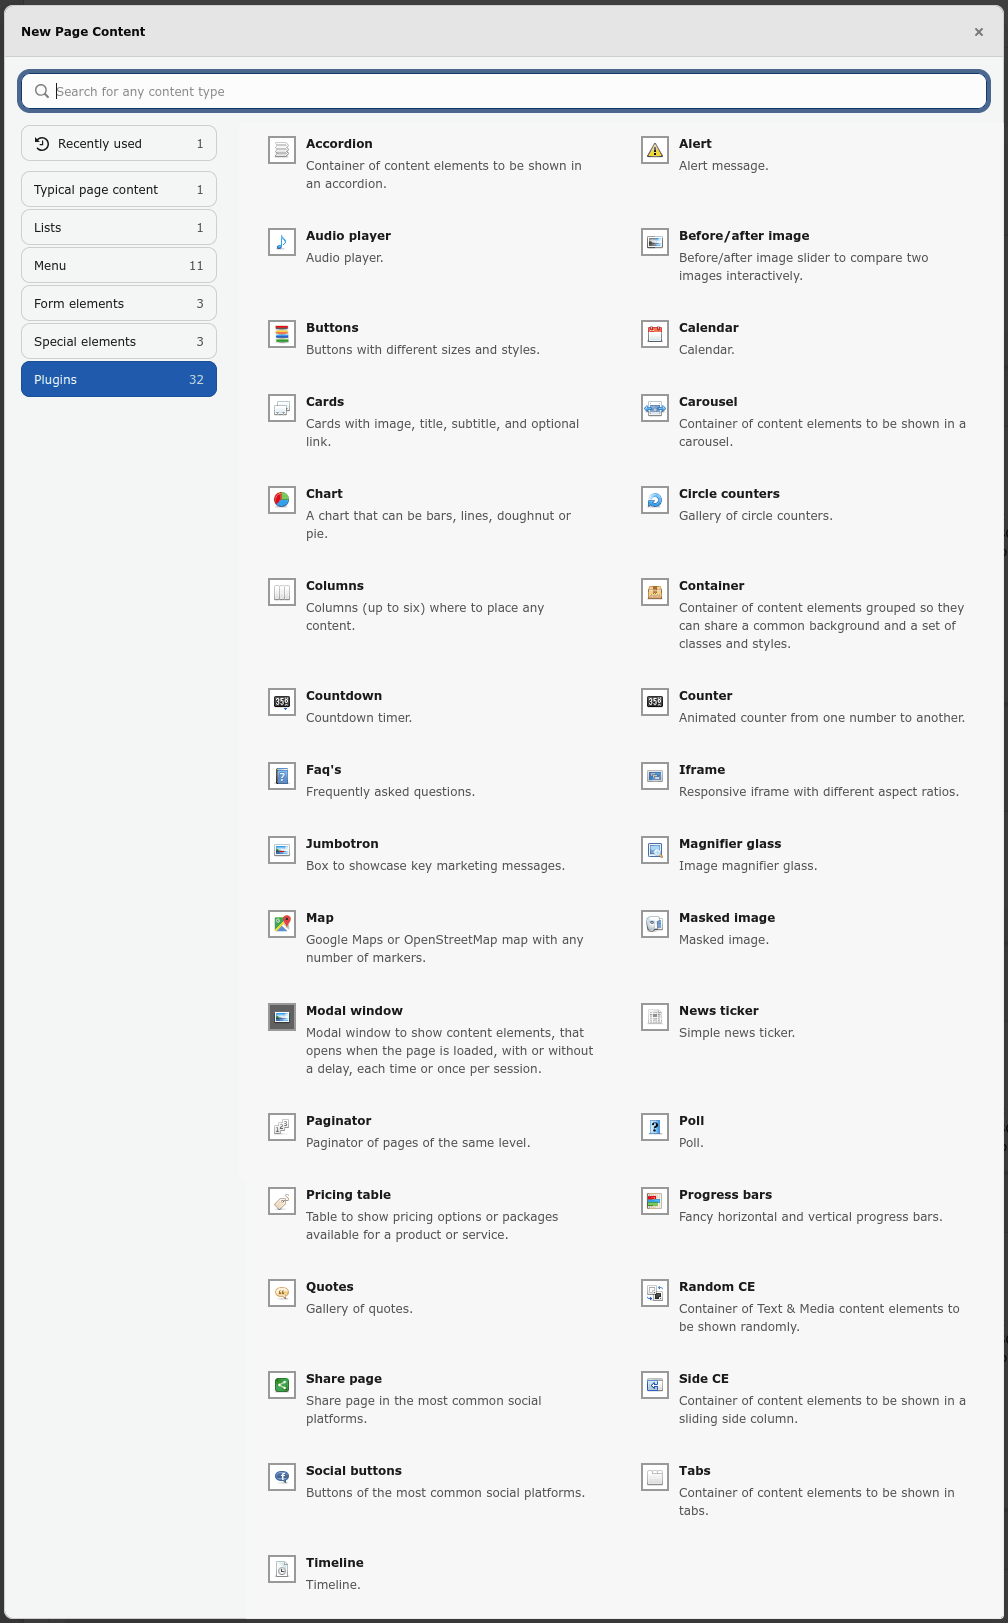
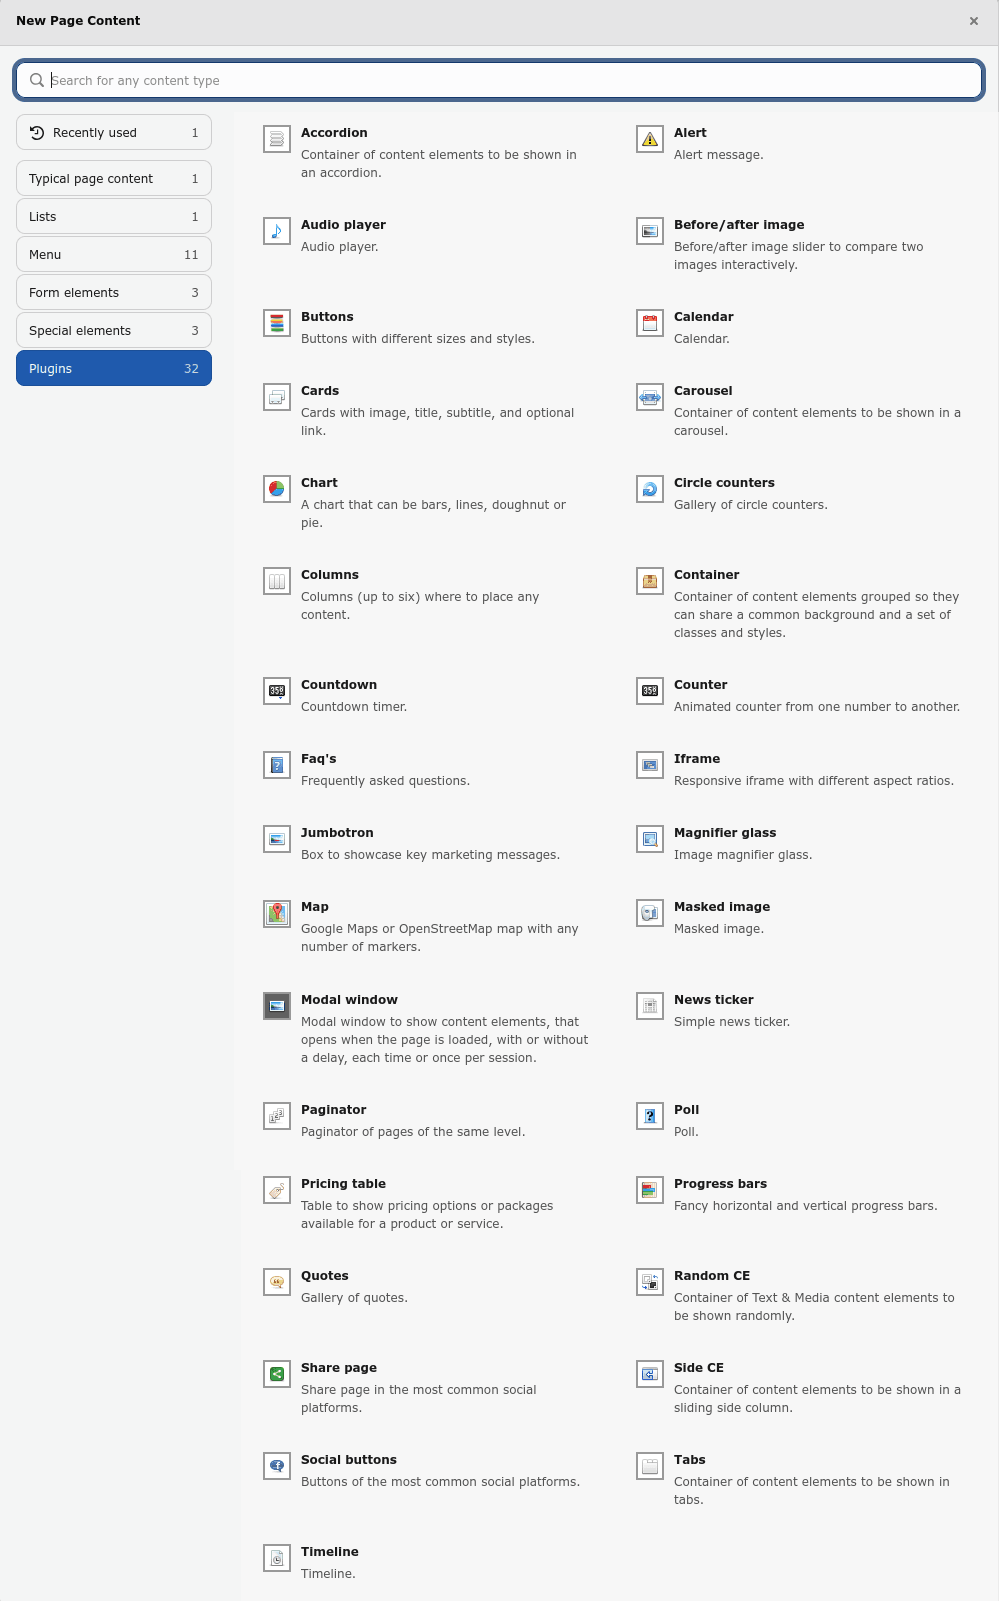
[FIX] Fix small css issue with Side CE and documentation

Changed region(s): [[0.0, 0.0, 1.0, 1.0], [0.6206, 0.6871, 0.962, 0.9369], [0.8689, 0.1562, 0.8999, 0.1874]]

diff --git a/Resources/Public/Css/css.css b/Resources/Public/Css/css.css
@@ -955,19 +955,17 @@ audio {
 .tx-das-content-sidece {
     position: fixed;
     top: calc(50% + 50px);
-    right: -500px;
+    right: -400px;
     transform: translateX(100%);
     transform: translateY(-50%);
-    width: 500px;
-    max-width: calc(100% - 70px);
+    width: 400px;
     z-index: 100;
     background-color: #fff;
     transition: 0.25s;
 }
 
 .tx-das-content-sidece.shadow {
-    width: 500px;
-    max-width: calc(100% - 70px);
+    width: 400px;
 }
 
 .tx-das-content-sidece.open {
@@ -988,6 +986,16 @@ html[data-bs-theme="dark"] {
     transform-origin: left bottom;
     border-bottom-left-radius: 0;
     border-bottom-right-radius: 0;
+}
+
+@media (min-width: 576px) {
+    .tx-das-content-sidece {
+        right: -500px;
+        width: 500px;
+    }
+    .tx-das-content-sidece.shadow {
+        width: 500px;
+    }
 }
 
 /* Counterdown */

diff --git a/Documentation/EditorsManual/Typo3ContentElements.rst b/Documentation/EditorsManual/Typo3ContentElements.rst
@@ -7,7 +7,7 @@ Templates and partials of these TYPO3 content elements and plug-ins: File links,
 
 Content elements have been enhanced with some extra fields.
 
-The *Headlines* palette has now some extra fields for a Pre header and to add a Font Awesome icon to the header, allowing to choose its size, position and color. Also, an additional field allows to style the header independently from the chosen layout.
+The *Headlines* palette has now some extra fields for a Pre header and to allow to style the header independently from the chosen layout.
 
 The :guilabel:`Appearance` tab has now some extra fields and new predefined options for the field Layout:
 
@@ -16,6 +16,8 @@ The :guilabel:`Appearance` tab has now some extra fields and new predefined opti
 * *Drop shadow*: to add a drop shadow around the content, with different intensities
 
 * *Background*: this new palette allows to add a background to the content. It can be a predefined or custom color, and an image or a video. If an image or video, it can be blurred or have a vignette, to make the text more readable
+
+* *Add icon to the header*: this new palette allows to add a Font Awesome icon to the header, allowing to choose its size, position and color
 
 * *Custom classes and styles*: this new palette allows to force the text to be black or white regardless the styles (useful when setting a background) and add classes and custom inline styles to be applied to the content
 
